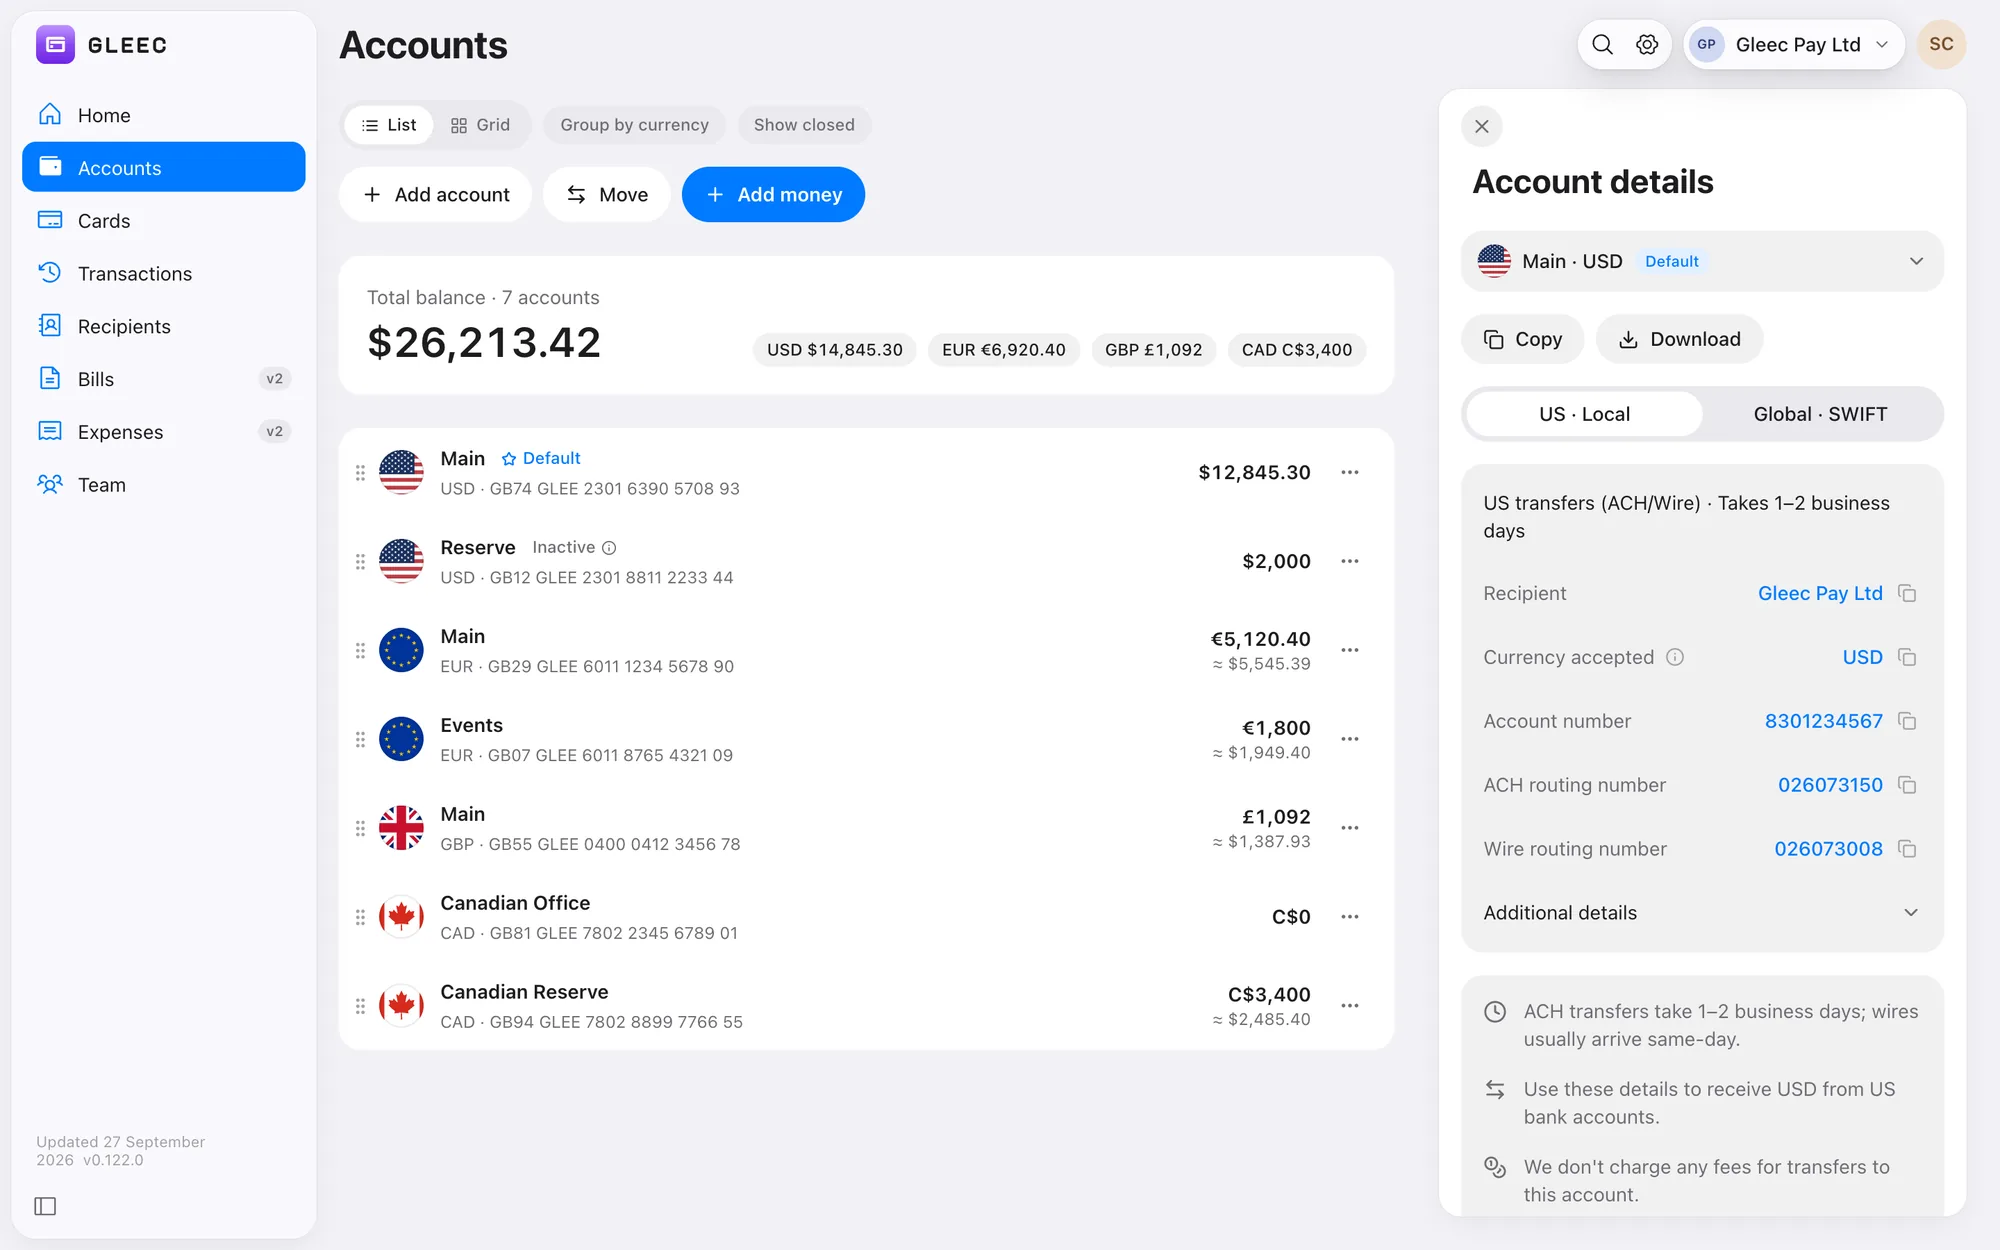
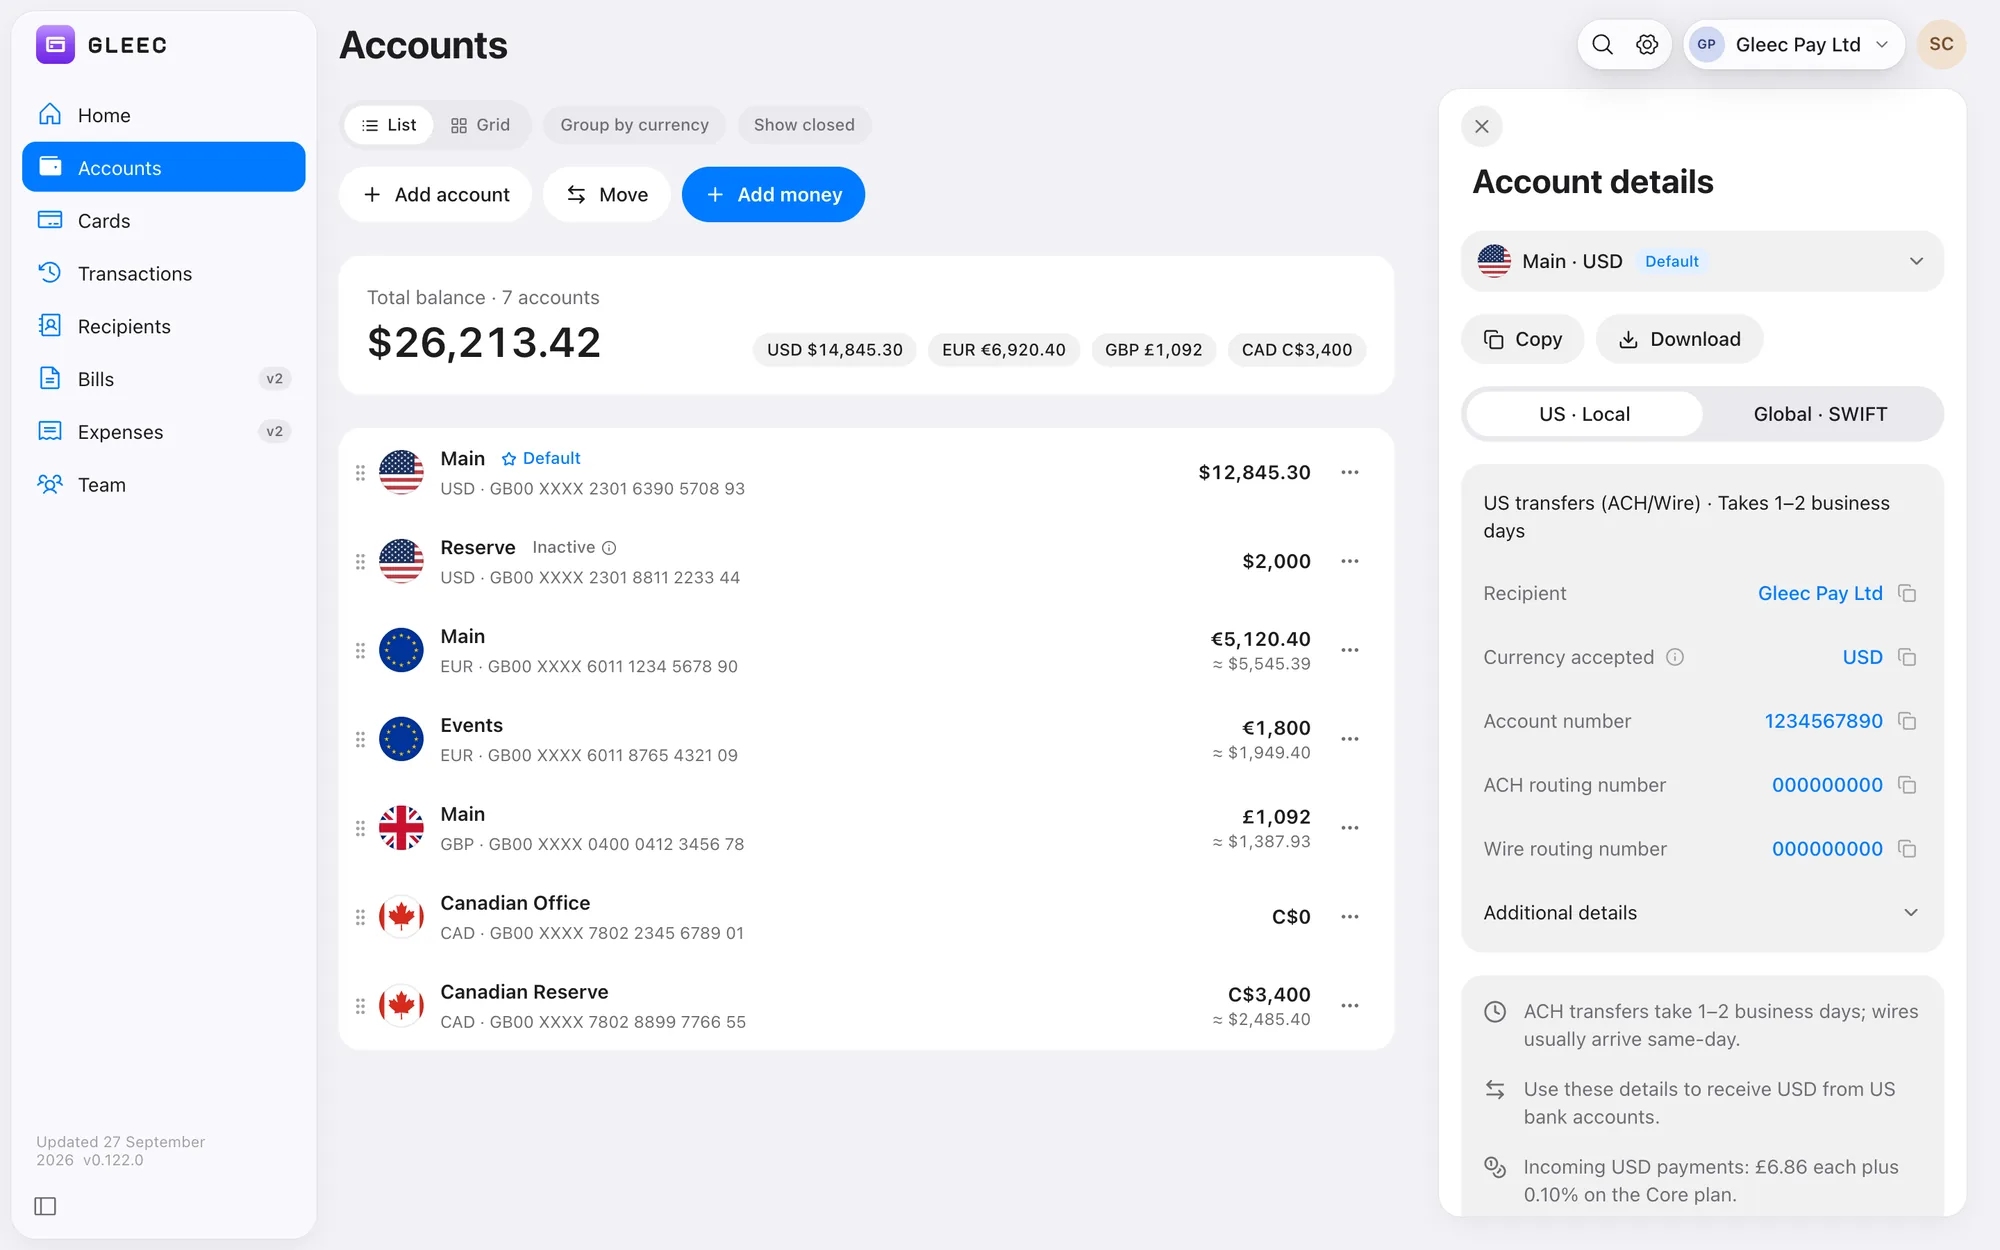
v3: true fees in the demo stills; partners list per Ilia
- Accounts/Payments stills re-shot. Fees now follow financial model v47 (Core): incoming
  USD £6.86 each + 0.10%; the transfer shows $0.76 + 1.75% FX markup (was 'No fees').
- Real US routing numbers → 000000000; IBANs no longer carry a 'GLEE' bank code.
- Partners: ClearBank, Banking Circle, Sumsub, Card scheme (Thredd, TAG, Stanhope removed).

diff --git a/v3/src/content.js b/v3/src/content.js
@@ -141,7 +141,7 @@ export const PARTNERS = {
   eyebrow: "Infrastructure",
   title: "Built upon experienced financial infrastructure partners.",
   lead: "GLEEC Business is being built upon regulated banking, payment, card and compliance infrastructure. Logos reflect intended integrations and ongoing provider discussions — not confirmed or live partnerships, and not an endorsement by any provider.",
-  names: ["Card scheme", "Thredd", "Banking Circle", "sumsub", "TAG", "Stanhope"],
+  names: ["ClearBank", "Banking Circle", "Sumsub", "Card scheme"],
 };
 
 export const ACCOUNTS = {
